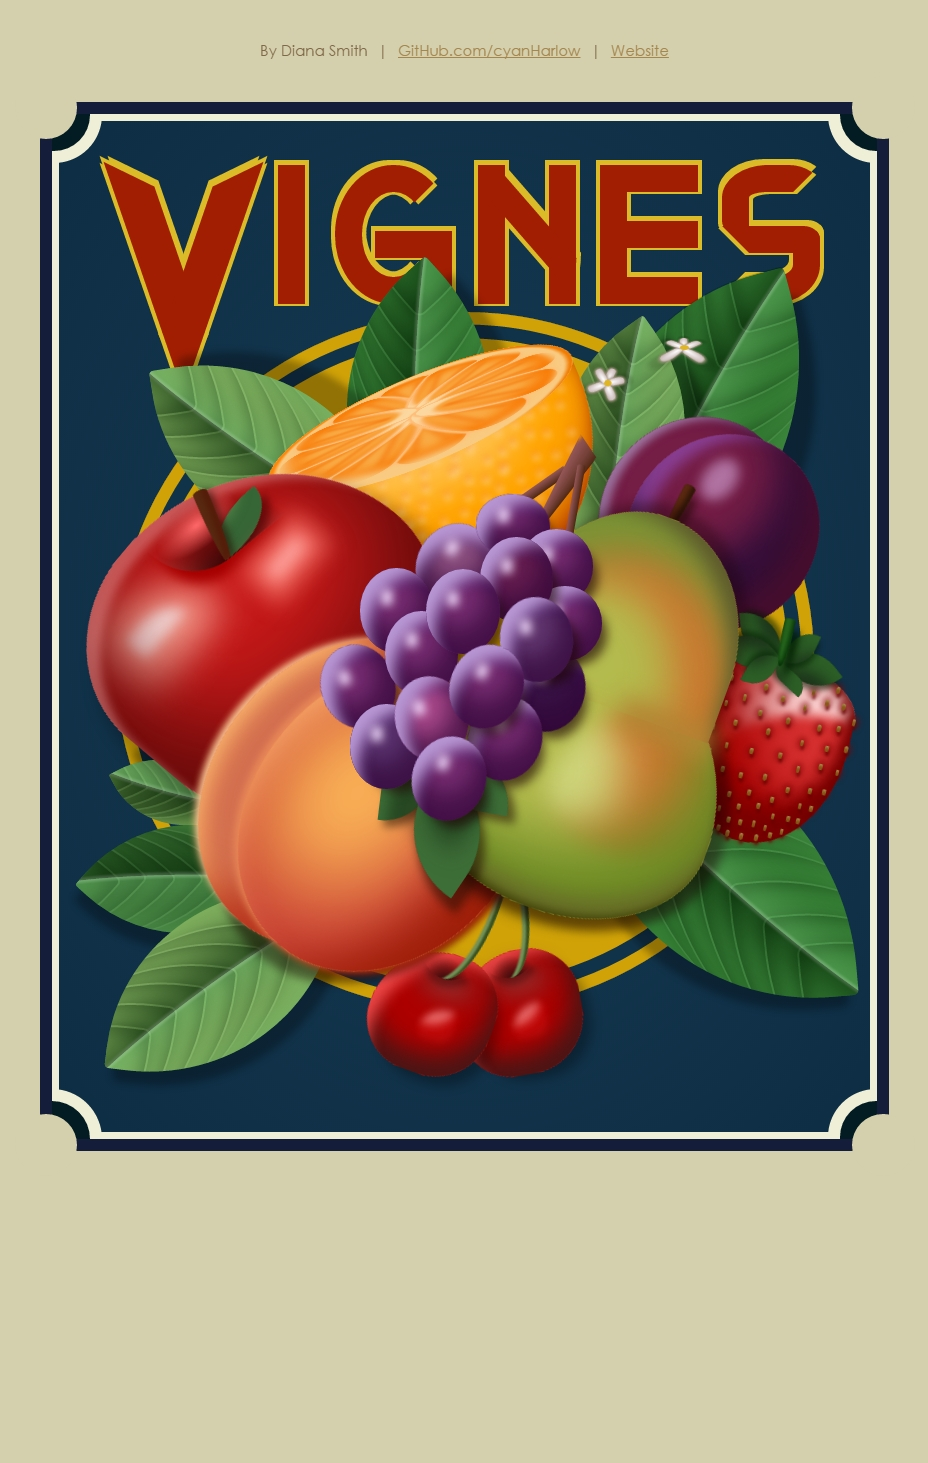
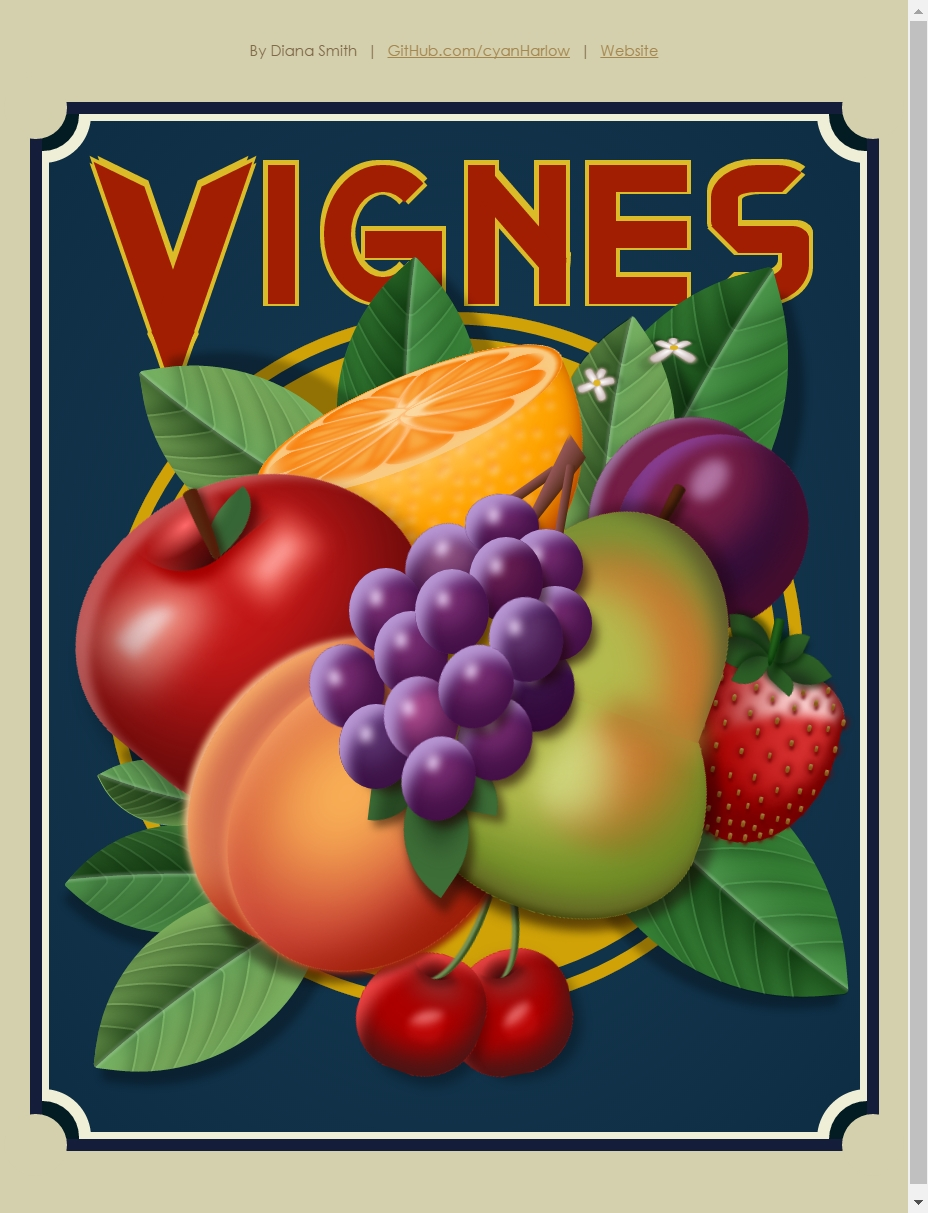
screens

diff --git a/screenshot1.css b/screenshot1.css
@@ -1,0 +1,7 @@
+body {
+    overflow: hidden; !important;
+}
+
+.linksection {
+    display: none !important;
+}

diff --git a/screenshot2.css b/screenshot2.css
@@ -1,0 +1,4 @@
+.width {
+    top: -206px !important;
+    left: -27px !important;
+}
